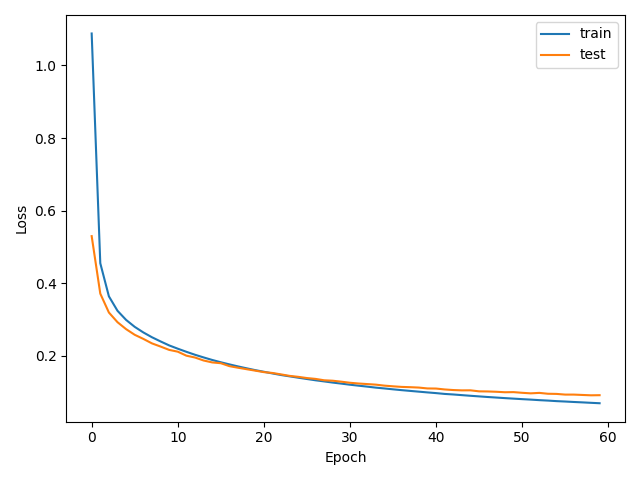
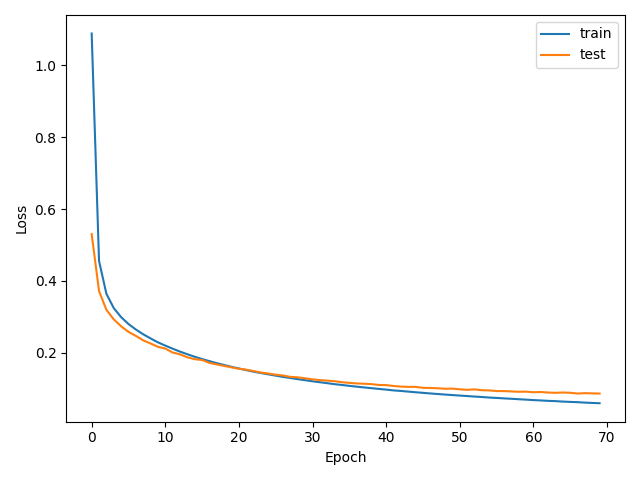
fix: altera o experimento 2 para 70 épocas

diff --git a/experiments/experimento_2.py b/experiments/experimento_2.py
@@ -4,7 +4,7 @@ from train import run_experiment
 
 
 HIDDEN_LAYERS = [128, 64]
-EPOCHS = 60
+EPOCHS = 70
 BATCH_SIZE = 128
 LEARNING_RATE = 0.01
 SEED = 42